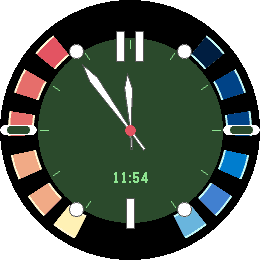
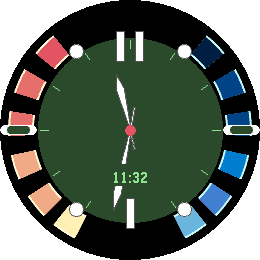
config

diff --git a/resources/CHANGES.html b/resources/CHANGES.html
@@ -2,7 +2,7 @@
 
 <h1>Changes</h1>
 
-<p>The latest version is 1.5.0.  To update, remove the watchface from your
+<p>The latest version is 1.5.1.  To update, remove the watchface from your
 watch and then load it again from your locker.</p>
 
 <p>The iOS version has to go through the Apple Store approval process - so
@@ -12,6 +12,13 @@ watchface.</p>
 
 <p>Android users do not need to wait for the Pebble app to update before
 updating the watchface.</p>
+
+<h2>version 1.5.1</h2>
+
+<ul>
+<li>Adds a combined HUD mode that draws analogue hands behind a transparent
+digital display panel.</li>
+</ul>
 
 <h2>version 1.5.0</h2>
 

diff --git a/src/js/pebble-js-app.js b/src/js/pebble-js-app.js
@@ -1,4 +1,4 @@
-var VERSION = "1.5.0";
+var VERSION = "1.5.1";
 var OPTIONS_STORAGE_KEY = "gabbroeye-hud-options-v1";
 var CONFIG_URL = "https://www.gloriousedge.com/fuzzy-text-two/resources/configure-fuzzy-text-two.html";
 
@@ -12,7 +12,8 @@ var dateFormats = {
 
 var displayModes = {
   digital: 0,
-  analogue: 1
+  analogue: 1,
+  combined: 2
 };
 
 function readyCallback() {

diff --git a/resources/configure-fuzzy-text-two.html b/resources/configure-fuzzy-text-two.html
@@ -52,6 +52,7 @@
 			<select id="display_mode" name="display_mode">
 				<option value="digital">Digital</option>
 				<option value="analogue">Analogue</option>
+				<option value="combined">Combined</option>
 			</select>
 		</div>
 		<div class="field">

diff --git a/resources/configure-gabbroeye-hud.html b/resources/configure-gabbroeye-hud.html
@@ -52,6 +52,7 @@
 			<select id="display_mode" name="display_mode">
 				<option value="digital">Digital</option>
 				<option value="analogue">Analogue</option>
+				<option value="combined">Combined</option>
 			</select>
 		</div>
 		<div class="field">

diff --git a/src/spy_face.c b/src/spy_face.c
@@ -10,6 +10,7 @@
 typedef enum {
   SPY_FACE_MODE_DIGITAL = 0,
   SPY_FACE_MODE_ANALOGUE = 1,
+  SPY_FACE_MODE_COMBINED = 2,
 } SpyFaceMode;
 
 typedef enum {
@@ -72,9 +73,14 @@ static GFont spy_small_font_for_geometry(SpyFaceGeometry geometry)
 
 static SpyFaceMode spy_mode_for_setting(int display_mode)
 {
-  return display_mode == SPY_FACE_MODE_ANALOGUE
-      ? SPY_FACE_MODE_ANALOGUE
-      : SPY_FACE_MODE_DIGITAL;
+  switch (display_mode) {
+    case SPY_FACE_MODE_ANALOGUE:
+      return SPY_FACE_MODE_ANALOGUE;
+    case SPY_FACE_MODE_COMBINED:
+      return SPY_FACE_MODE_COMBINED;
+    default:
+      return SPY_FACE_MODE_DIGITAL;
+  }
 }
 
 static void spy_draw_text(GContext *ctx, const char *text, GFont font, GRect frame,
@@ -373,8 +379,24 @@ static void spy_format_date(char *buffer, size_t buffer_size, const SpyFaceState
   buffer[buffer_size - 1] = '\0';
 }
 
+static void spy_draw_transparent_fill(GContext *ctx, GRect frame, GColor colour,
+    int spacing)
+{
+  if (spacing < 2) {
+    spacing = 2;
+  }
+  graphics_context_set_stroke_color(ctx, colour);
+  for (int y = frame.origin.y; y < frame.origin.y + frame.size.h; y += spacing) {
+    int row_offset = ((y - frame.origin.y) / spacing) % 2 == 0 ? 0 : spacing / 2;
+    for (int x = frame.origin.x + row_offset; x < frame.origin.x + frame.size.w;
+        x += spacing) {
+      graphics_draw_pixel(ctx, GPoint(x, y));
+    }
+  }
+}
+
 static void spy_draw_display_background(GContext *ctx, SpyFaceGeometry geometry,
-    GColor *bright_green, GColor *middle_green)
+    GColor *bright_green, GColor *middle_green, bool transparent)
 {
   GRect display = GRect(geometry.display.x, geometry.display.y,
       geometry.display.w, geometry.display.h);
@@ -392,17 +414,23 @@ static void spy_draw_display_background(GContext *ctx, SpyFaceGeometry geometry,
       inner_display.size.w, inner_display.size.h / 2);
 
   graphics_context_set_fill_color(ctx, outer_green);
-  graphics_fill_rect(ctx, display, corner_radius, GCornersAll);
-  graphics_context_set_fill_color(ctx, screen_green);
-  graphics_fill_rect(ctx, inner_display, corner_radius, GCornersAll);
-  graphics_context_set_fill_color(ctx, band_green);
-  graphics_fill_rect(ctx, screen_band, 0, GCornerNone);
+  if (transparent) {
+    spy_draw_transparent_fill(ctx, display, outer_green, 3);
+    spy_draw_transparent_fill(ctx, inner_display, screen_green, 3);
+    spy_draw_transparent_fill(ctx, screen_band, band_green, 4);
+  } else {
+    graphics_fill_rect(ctx, display, corner_radius, GCornersAll);
+    graphics_context_set_fill_color(ctx, screen_green);
+    graphics_fill_rect(ctx, inner_display, corner_radius, GCornersAll);
+    graphics_context_set_fill_color(ctx, band_green);
+    graphics_fill_rect(ctx, screen_band, 0, GCornerNone);
+  }
   graphics_context_set_stroke_color(ctx, border_green);
   graphics_draw_rect(ctx, display);
 }
 
 static void spy_draw_digital_status_rectangles(GContext *ctx, SpyFaceGeometry geometry,
-    GRect display)
+    GRect display, bool transparent)
 {
   const int segment_count = 4;
   int segment_width = spy_face_scaled_value(geometry.min_side, 30);
@@ -414,17 +442,21 @@ static void spy_draw_digital_status_rectangles(GContext *ctx, SpyFaceGeometry ge
 
   for (int i = 0; i < segment_count; i++) {
     GColor fill_colour = i == 0 ? spy_colour(28, 198, 36) : spy_colour(28, 142, 36);
-    graphics_context_set_fill_color(ctx, fill_colour);
-    graphics_fill_rect(ctx, GRect(x + (i * (segment_width + segment_gap)), y,
-        segment_width, segment_height), 1, GCornersAll);
+    GRect segment = GRect(x + (i * (segment_width + segment_gap)), y,
+        segment_width, segment_height);
+    if (transparent) {
+      spy_draw_transparent_fill(ctx, segment, fill_colour, 2);
+    } else {
+      graphics_context_set_fill_color(ctx, fill_colour);
+      graphics_fill_rect(ctx, segment, 1, GCornersAll);
+    }
     graphics_context_set_stroke_color(ctx, spy_colour(0, 44, 12));
-    graphics_draw_rect(ctx, GRect(x + (i * (segment_width + segment_gap)), y,
-        segment_width, segment_height));
+    graphics_draw_rect(ctx, segment);
   }
 }
 
 static void spy_draw_digital_display(GContext *ctx, SpyFaceGeometry geometry,
-    const SpyFaceLayerData *data)
+    const SpyFaceLayerData *data, bool transparent)
 {
   const SpyFaceState *state = &data->state;
   GRect display = GRect(geometry.display.x, geometry.display.y,
@@ -432,7 +464,7 @@ static void spy_draw_digital_display(GContext *ctx, SpyFaceGeometry geometry,
   GColor bright_green;
   GColor middle_green;
 
-  spy_draw_display_background(ctx, geometry, &bright_green, &middle_green);
+  spy_draw_display_background(ctx, geometry, &bright_green, &middle_green, transparent);
   int pad = spy_face_scaled_value(geometry.min_side, 10);
   GFont label_font = spy_label_font_for_geometry(geometry);
   GFont small_font = spy_small_font_for_geometry(geometry);
@@ -483,7 +515,7 @@ static void spy_draw_digital_display(GContext *ctx, SpyFaceGeometry geometry,
           display.origin.y + spy_face_scaled_value(geometry.min_side, 78),
           spy_face_scaled_value(geometry.min_side, 30), spy_face_scaled_value(geometry.min_side, 18)),
       GTextAlignmentCenter, middle_green);
-  spy_draw_digital_status_rectangles(ctx, geometry, display);
+  spy_draw_digital_status_rectangles(ctx, geometry, display, transparent);
 }
 
 static void spy_draw_analogue_digital_readout(GContext *ctx, SpyFaceGeometry geometry,
@@ -516,7 +548,7 @@ static void spy_draw_analogue_digital_readout(GContext *ctx, SpyFaceGeometry geo
 }
 
 static void spy_draw_analogue_display(GContext *ctx, SpyFaceGeometry geometry,
-    const SpyFaceLayerData *data)
+    const SpyFaceLayerData *data, bool draw_readout)
 {
   const SpyFaceState *state = &data->state;
   GColor bright_green = spy_colour(28, 198, 36);
@@ -583,7 +615,9 @@ static void spy_draw_analogue_display(GContext *ctx, SpyFaceGeometry geometry,
     spy_draw_analogue_centre_hub(ctx, geometry, centre);
   }
 
-  spy_draw_analogue_digital_readout(ctx, geometry, state, radius, bright_green);
+  if (draw_readout) {
+    spy_draw_analogue_digital_readout(ctx, geometry, state, radius, bright_green);
+  }
 }
 
 static void spy_face_layer_update_proc(Layer *layer, GContext *ctx)
@@ -597,9 +631,12 @@ static void spy_face_layer_update_proc(Layer *layer, GContext *ctx)
   graphics_fill_rect(ctx, bounds, 0, GCornerNone);
 
   if (data->mode == SPY_FACE_MODE_ANALOGUE) {
-    spy_draw_analogue_display(ctx, geometry, data);
+    spy_draw_analogue_display(ctx, geometry, data, true);
+  } else if (data->mode == SPY_FACE_MODE_COMBINED) {
+    spy_draw_analogue_display(ctx, geometry, data, false);
+    spy_draw_digital_display(ctx, geometry, data, true);
   } else {
-    spy_draw_digital_display(ctx, geometry, data);
+    spy_draw_digital_display(ctx, geometry, data, false);
   }
   spy_draw_ring(ctx, geometry);
   spy_draw_hardware_details(ctx, geometry);
@@ -655,7 +692,7 @@ bool spy_face_layer_wants_second_ticks(Layer *layer)
   }
 
   SpyFaceLayerData *data = layer_get_data(layer);
-  return data->mode == SPY_FACE_MODE_ANALOGUE
+  return (data->mode == SPY_FACE_MODE_ANALOGUE || data->mode == SPY_FACE_MODE_COMBINED)
       && data->state.analogue_seconds_enabled
       && data->state.backlight_on;
 }

diff --git a/src/TextWatch.c b/src/TextWatch.c
@@ -49,6 +49,7 @@
 
 #define DISPLAY_MODE_DIGITAL 0
 #define DISPLAY_MODE_ANALOGUE 1
+#define DISPLAY_MODE_COMBINED 2
 
 #define TEXT_COLOUR_MATCH_FOREGROUND -1
 #define CUSTOM_ROW_COUNT 3
@@ -404,6 +405,7 @@ static int valid_display_mode(int mode)
 	switch (mode) {
 		case DISPLAY_MODE_DIGITAL:
 		case DISPLAY_MODE_ANALOGUE:
+		case DISPLAY_MODE_COMBINED:
 			return mode;
 		default:
 			return DISPLAY_MODE_DIGITAL;
